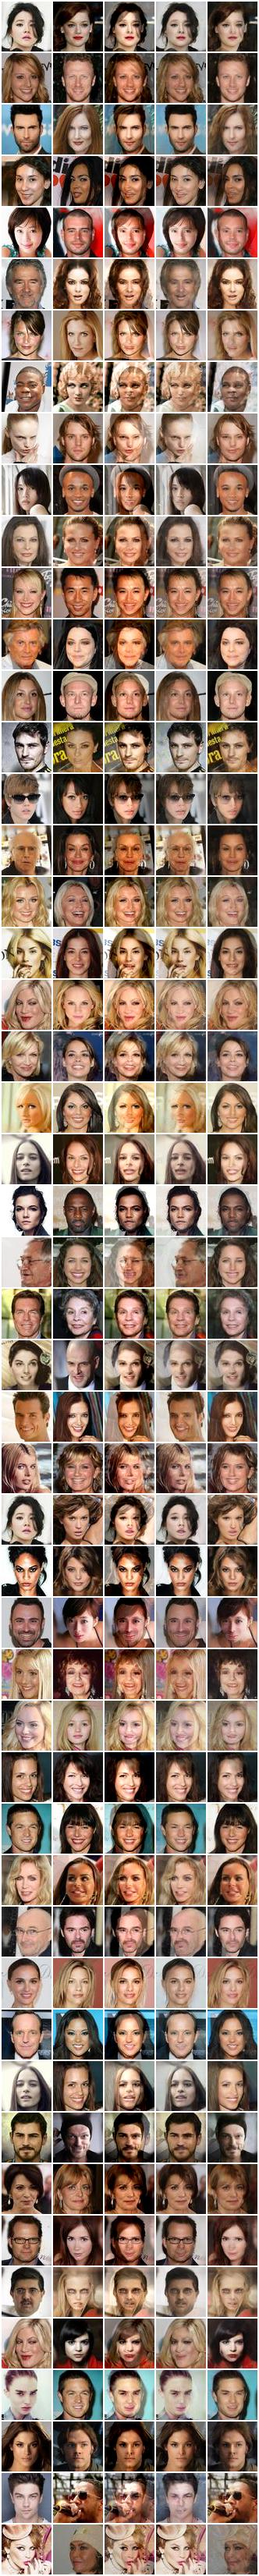
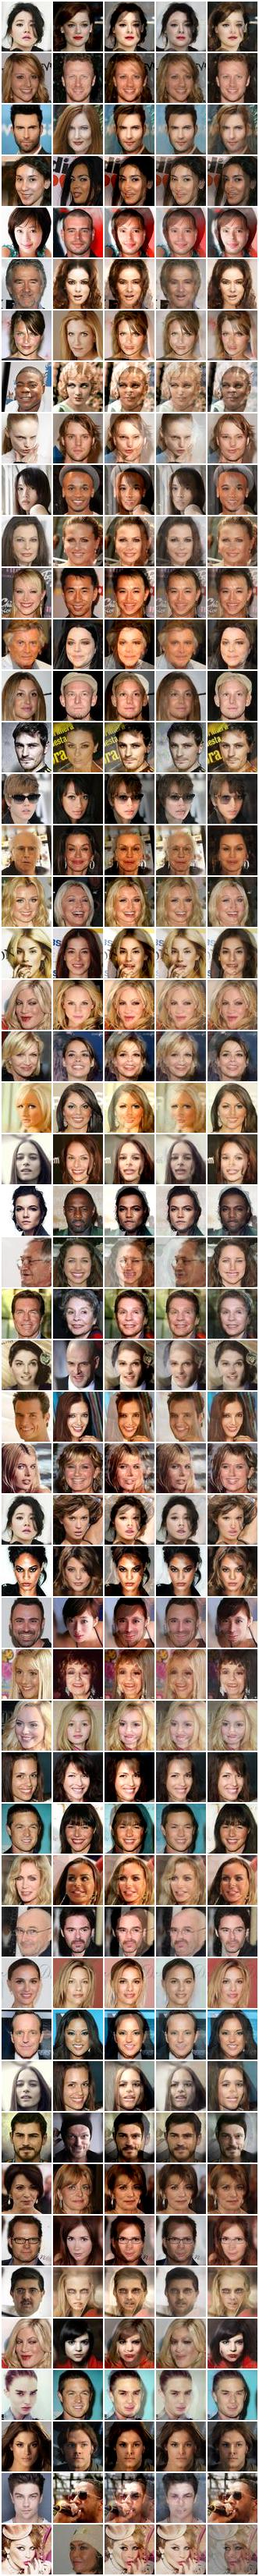
Save faces_dual_iso eval results

diff --git a/train.py b/train.py
@@ -43,6 +43,10 @@ class ColdDiffusion:
         n = len(mixed_image)
         init_timestep = math.ceil(alpha_init / self.alteration_per_t)
 
+        # Track swap state per sample: shape (n, 1, 1, 1)
+        is_swapped = torch.zeros(n, 1, 1, 1, dtype=torch.bool, device=self.device)
+        first_dark = None
+
         model.eval()
         with torch.no_grad():
             x_t = mixed_image.to(self.device)
@@ -50,30 +54,44 @@ class ColdDiffusion:
             for i in reversed(range(1, init_timestep + 1)):
                 t = torch.full((n,), i, device=self.device, dtype=torch.long)
 
-                # Model predicts 6 channels: (Bright, Dark)
                 model_out = model(x_t, t).sample
-                
-                # ONLY use the bright image prediction. Discard the UNet's dark prediction.
-                predicted_bright = model_out[:, :3]
-                
-                # Extract the dark image mathematically
-                predicted_dark = (mixed_image - math.sqrt(1.0 - alpha_init) * predicted_bright) / math.sqrt(alpha_init)
+                p1 = model_out[:, :3]  # Assumed Bright (initially)
+                p2 = model_out[:, 3:]  # Assumed Dark (initially)
+
+                if i == init_timestep:
+                    # Capture the initial dark prediction anchor
+                    predicted_dark = p2
+                    first_dark = p2.clone()
+                else:
+                    # Compute sample-wise MSE against the static initial dark anchor
+                    mse_p1 = torch.mean((p1 - first_dark) ** 2, dim=[1, 2, 3], keepdim=True)
+                    mse_p2 = torch.mean((p2 - first_dark) ** 2, dim=[1, 2, 3], keepdim=True)
+                    
+                    # Check for an identity inversion ONLY if a swap hasn't been locked in yet
+                    new_swap = (~is_swapped) & (mse_p1 < mse_p2)
+                    is_swapped = is_swapped | new_swap
+                    
+                    # Route channels dynamically based on the persistent mask
+                    predicted_dark = torch.where(is_swapped, p1, p2)
+
+                # Mathematically resolve the bright counterpart
+                predicted_bright = (mixed_image - math.sqrt(1.0 - alpha_init) * predicted_dark) / math.sqrt(alpha_init)
 
                 # --- CLAMPING LOGIC ---
-                # Safely enforce bounds on the endpoint predictions without clipping the expanded x_t space
-                predicted_bright = torch.clamp(predicted_bright, -1.0, 1.0)
                 predicted_dark = torch.clamp(predicted_dark, -1.0, 1.0)
+                predicted_bright = torch.clamp(predicted_bright, -1.0, 1.0)
                 # --------------------------
 
-                x_t = x_t - self.mix_images(predicted_bright, predicted_dark, t) + self.mix_images(
-                    predicted_bright, predicted_dark, t - 1
+                # Pass dark image first to mixing method
+                x_t = x_t - self.mix_images(predicted_dark, predicted_bright, t) + self.mix_images(
+                    predicted_dark, predicted_bright, t - 1
                 )
 
         model.train()
 
-        # Final extraction for returning
-        predicted_dark = (mixed_image - math.sqrt(1.0 - alpha_init) * x_t) / math.sqrt(alpha_init)
-        return to_uint8(x_t), to_uint8(predicted_dark)       
+        # Final extraction from converged dark trajectory
+        predicted_bright = (mixed_image - math.sqrt(1.0 - alpha_init) * x_t) / math.sqrt(alpha_init)
+        return to_uint8(predicted_bright), to_uint8(x_t)
 
 
 def get_unet(image_size):
@@ -554,7 +572,7 @@ def launch():
 
     #train(args)
     eval(args)
-    one_shot_eval(args)
+    #one_shot_eval(args)
 
 
 if __name__ == "__main__":
